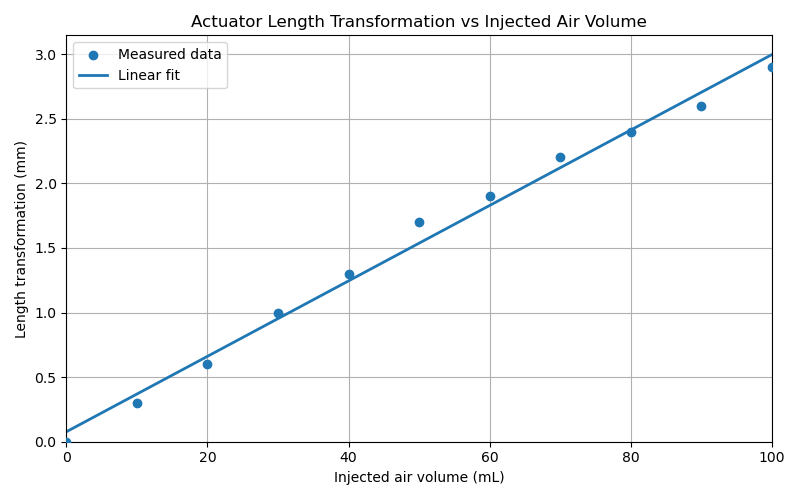
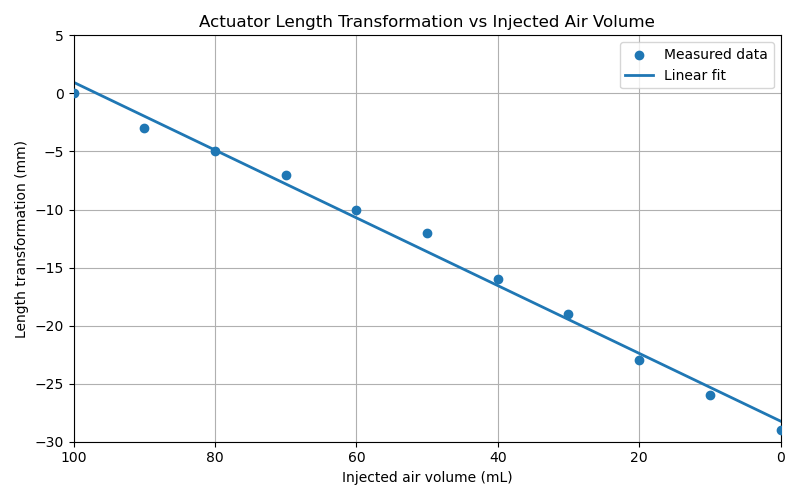
updated 3.1

diff --git a/T3/code/3_1_plot.py b/T3/code/3_1_plot.py
@@ -1,8 +1,9 @@
 import numpy as np
 import matplotlib.pyplot as plt
 
-air_volume_ml = np.array([0, 10, 20, 30, 40, 50, 60, 70, 80, 90, 100])
-length_transformation_mm = np.array([0, 0.3, 0.6, 1.0, 1.3, 1.7, 1.9, 2.2, 2.4, 2.6, 2.9])
+air_volume_ml = np.array([100, 90, 80, 70, 60, 50, 40, 30, 20, 10, 0])
+#length_transformation_mm = np.array([29, 26, 24 ,22, 19, 17, 13, 10, 6, 3, 0])
+length_transformation_mm = np.array([0, -3, -5 ,-7, -10, -12, -16, -19, -23, -26, -29])
 
 # Linearer Fit: y = m*x + b
 coefficients = np.polyfit(air_volume_ml, length_transformation_mm, deg=1)
@@ -31,8 +32,8 @@ plt.xlabel("Injected air volume (mL)")
 plt.ylabel("Length transformation (mm)")
 plt.title("Actuator Length Transformation vs Injected Air Volume")
 
-plt.xlim(0, 100)
-plt.ylim(bottom=0)
+plt.xlim(100, 0)
+plt.ylim(-30, 5)
 
 plt.grid(True)
 plt.legend()

diff --git a/T3/README.md b/T3/README.md
@@ -112,8 +112,10 @@ In this part, you will measure the linear displacement of the fabricated origami
 
 * **(3 points)** Describe the measurement setup you used to evaluate the actuator deformation, including how you applied the vacuum and how you measured the linear displacement.
 ```text
-We used an even undergound for both the measuring ruler and the structure in the airbag. At the beginning, the front end of the actuator is ending at 10cm. To ease the reading process, we taped a piece of paper flat to the tip of the actuator. Since the paper is very thin, it gives a precise reading of the ruler.
-Air is then injected in 10 mL intervals, and after each interval, the updated measurement is then taken and substracted by the starting 10cm. This results in the total increase for each step.
+We used an even underground for both the measuring ruler and the structure in the airbag. At the beginning, after 100 mL of air was injected into the actuator, the front end of the actuator was ending at 10 cm. To ease the reading process, we taped a piece of paper flat to the tip of the actuator. Since the paper is very thin, it gives a precise reading of the ruler.
+
+The air was then pulled back out in 10 mL intervals, and after each interval, the updated measurement was taken and subtracted by the starting 10 cm. This results in the total decrease for each step.
+
 ```
 
 * **(5 points)** Plot the relationship between the volume of air removed from the bag and the linear displacement of the actuator. What trend do you observe, and how does it relate to the design of the origami structure?
